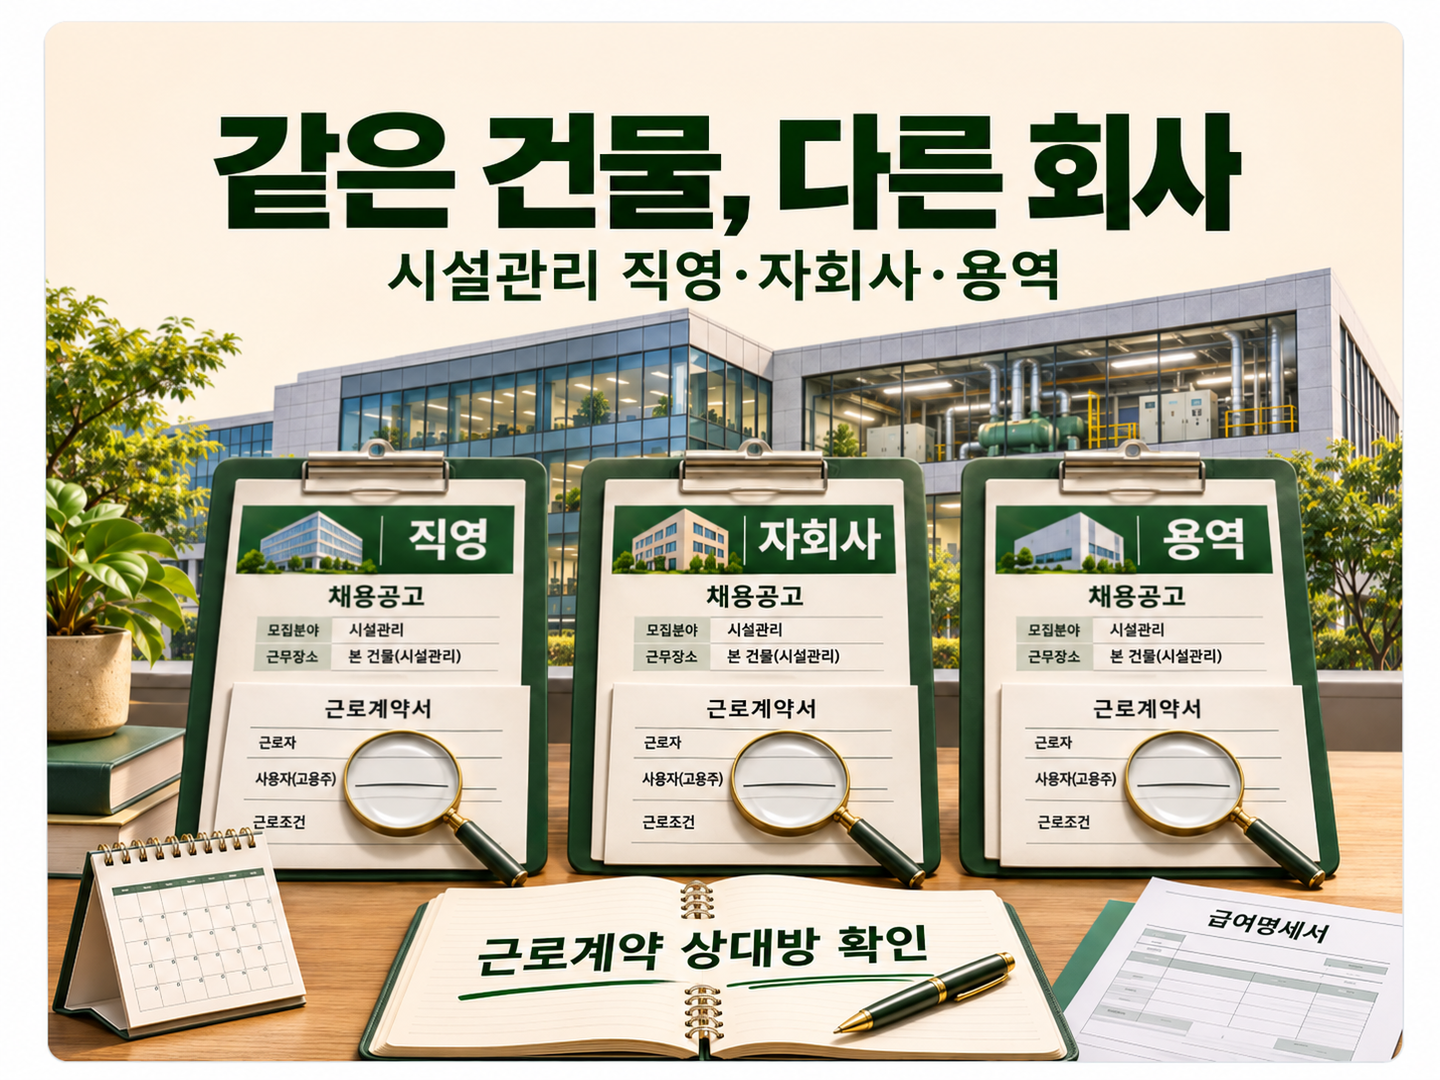
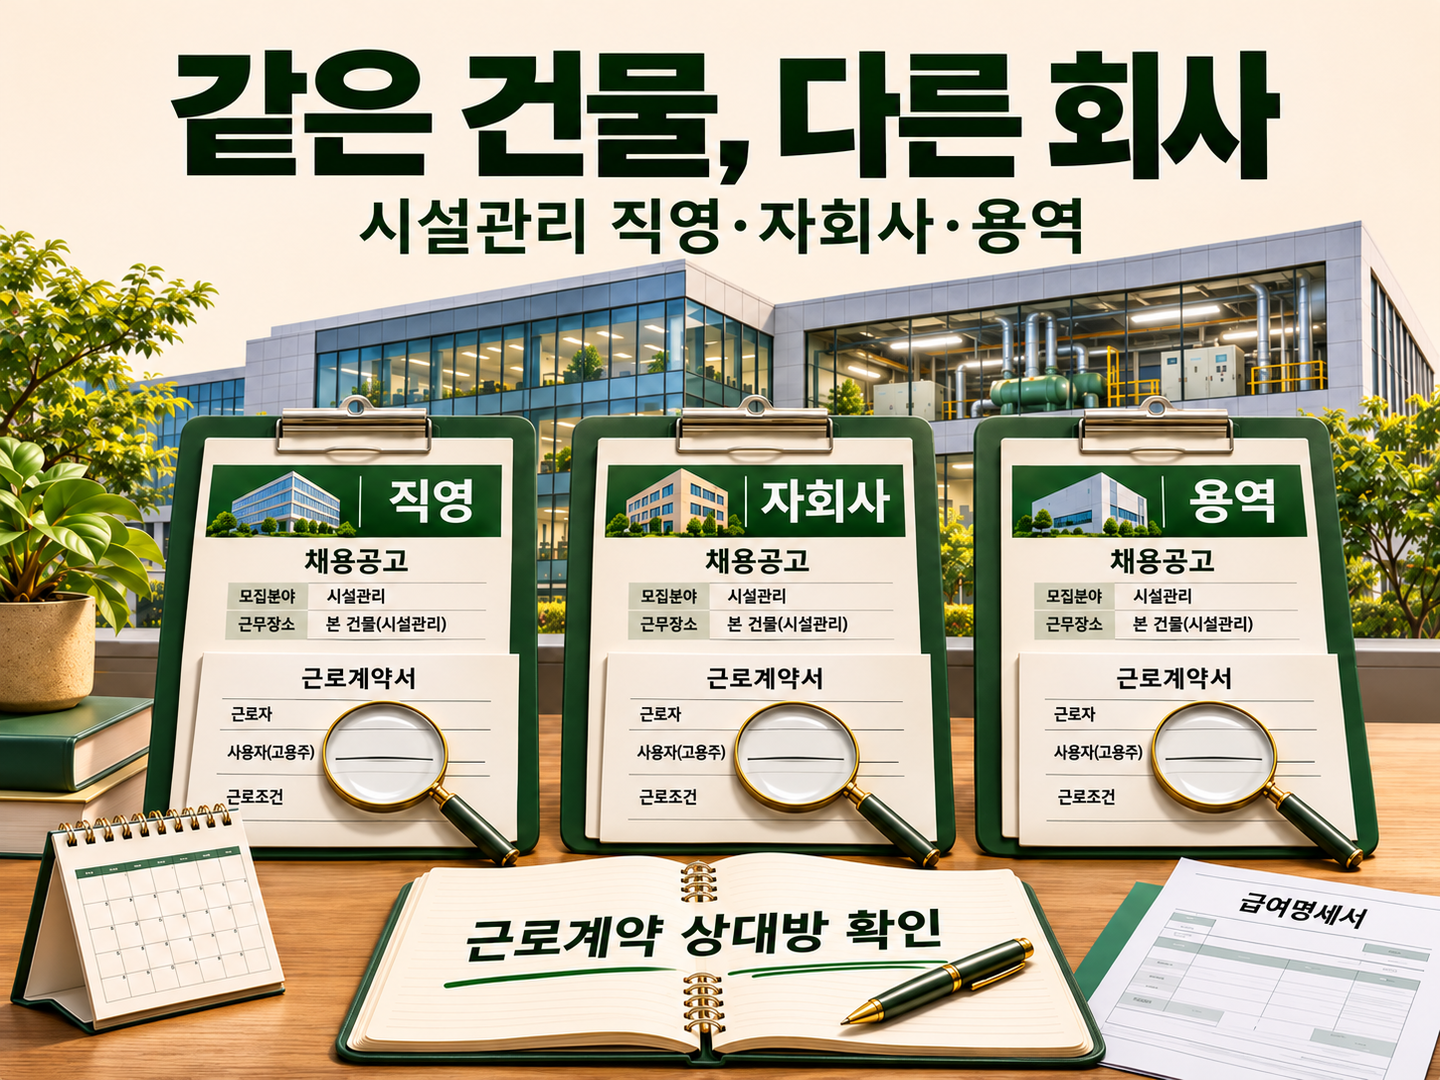
fix(facility): remove employment-types hero white frame
* fix(facility): remove employment-types hero frame and white margins

* test(facility): allow only approved borderless hero CSS while preserving prior checks

* test(facility): preserve existing QA guards for approved borderless hero

* test(facility): preserve existing QA guards for approved borderless hero

* test(facility): preserve existing QA guards for approved borderless hero

* test(facility): retain historical CSS hash while allowing exact hero override

* test(facility): protect prior compiled CSS while allowing only two hero frame rules

* fix(test): match minified hero CSS with correct regex escapes

* test(facility): normalize merged or separate compiled borderless selectors

* test(facility): require borderless style only on approved employment hero

* test(facility): preserve all image borders except approved hero

diff --git a/src/styles/facility.css b/src/styles/facility.css
@@ -216,3 +216,13 @@
 .facility-body .facility-overview-figure picture{display:block}
 .facility-body .facility-overview-figure img{aspect-ratio:var(--overview-ratio)}
 @media(max-width:767px){.facility-body .facility-overview-figure img{aspect-ratio:var(--overview-mobile-ratio)}}
+
+/* Borderless employment-types cover only: preserve all other facility image frames. */
+.facility-body img[src$="/03/01-employment-types-hero.webp"]{
+  border:0;
+  border-radius:0;
+}
+.facility-card-cover:has(> img[src$="/03/01-employment-types-hero.webp"]){
+  border:0;
+  border-radius:0;
+}
